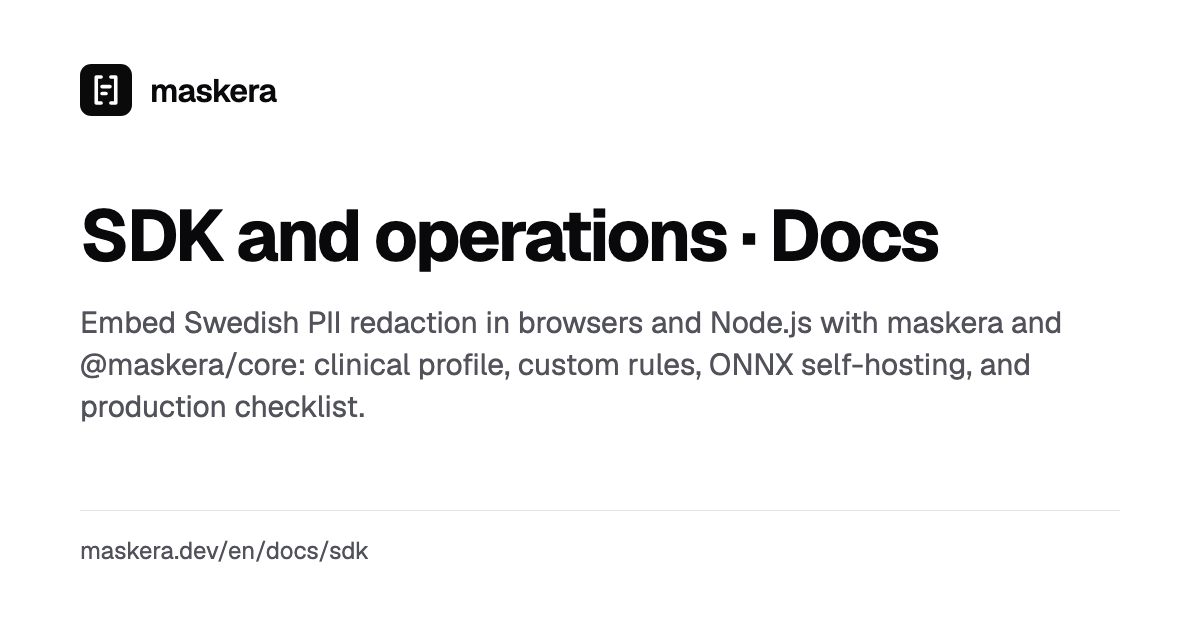
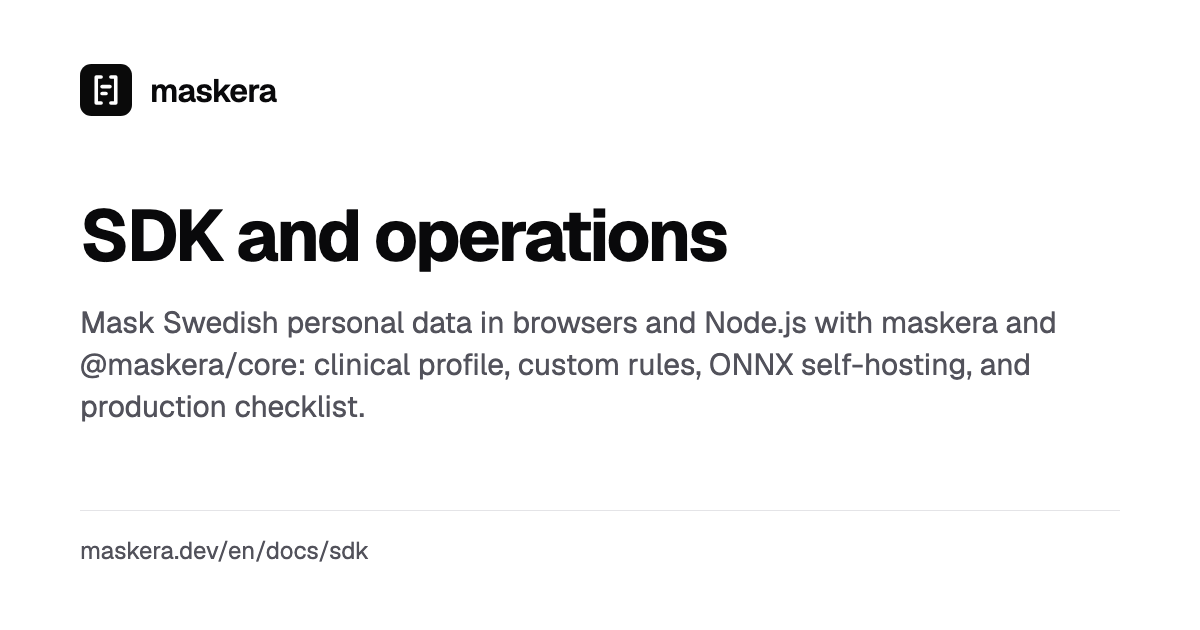
fix(demo): correct site facts and copy found in the two-model audit
- v21 trains on 121,200 rows (attestation), not v20's 108,400; locked to the model card by test/factClaims.test.ts
- /docs/sdk example kept the built-in rules off and leaked the personnummer: now spreads hybridDefaultDetectors, uses a Unicode-safe pattern and shows its real output; check:claims executes every redactWithNer code example up to its // text: line
- offline recipes pin --revision to MASKERA_SV_NER_REVISION and fetch only the needed files
- extension copy and llms.txt no longer claim Firefox before a store listing exists (tested against extensionBrowsers.ts)
- team word list is optionally encrypted, not always; MCP model size no longer stated as 43 MB
- pseudonymisation FAQ, @maskera/mcp in the security policy, verdict explained, brand casing, Swedish docs wording, consistent prices

Changed region(s): [[0.0617, 0.4825, 0.8942, 0.5429], [0.6167, 0.3317, 0.8017, 0.4222]]

diff --git a/apps/demo/test/factClaims.test.ts b/apps/demo/test/factClaims.test.ts
@@ -1,0 +1,88 @@
+import { readFileSync } from "node:fs"
+import { describe, expect, it } from "vitest"
+import { EXTENSION_BROWSERS, heroTargets } from "../src/extensionBrowsers"
+import * as i18n from "../src/i18n"
+
+/**
+ * Product facts the site repeats in prose, checked against the one place
+ * that owns each of them, so a model release or a store launch cannot leave
+ * an old number or an unshipped browser on the page.
+ */
+
+const repo = (path: string) => readFileSync(new URL(`../../../${path}`, import.meta.url), "utf8")
+const llms = readFileSync(new URL("../public/llms.txt", import.meta.url), "utf8")
+
+/** Every string in a copy tree with its key path. */
+function strings(node: unknown, path = ""): { path: string; value: string }[] {
+  if (typeof node === "string") return [{ path, value: node }]
+  if (Array.isArray(node)) return node.flatMap((item, i) => strings(item, `${path}[${i}]`))
+  if (node && typeof node === "object")
+    return Object.entries(node).flatMap(([key, value]) =>
+      strings(value, path ? `${path}.${key}` : key),
+    )
+  return []
+}
+
+const copies = Object.entries(i18n.copies)
+
+describe("training data size", () => {
+  // The model card states the attested row counts of the published model.
+  const card = repo("training/maskera-sv-ner-card/README.md")
+  const rows = Number(card.match(/uses ([\d,]+) generated training rows/)?.[1].replace(/,/g, ""))
+
+  it("is read from the model card", () => {
+    expect(rows).toBeGreaterThan(100_000)
+  })
+
+  it.each(copies)("matches the model card in %s", (_locale, copy) => {
+    const shown = copy.transparency.training.syntheticBody.match(/(\d{1,3}(?:[ , ]\d{3})+)/)?.[1]
+    expect(Number(shown?.replace(/[ , ]/g, ""))).toBe(rows)
+  })
+})
+
+describe("offline model download", () => {
+  const revision = repo("packages/ner/src/index.ts").match(
+    /MASKERA_SV_NER_REVISION = "([0-9a-f]{40})"/,
+  )?.[1]
+
+  it.each(copies)(
+    "pins every hf download to the package's model revision in %s",
+    (_locale, copy) => {
+      const downloads = strings(copy).filter(({ value }) => value.includes("hf download"))
+      expect(downloads.length).toBeGreaterThan(0)
+      for (const { path, value } of downloads)
+        expect(value, path).toContain(`--revision ${revision}`)
+    },
+  )
+})
+
+describe("browsers the extension runs in", () => {
+  // A browser counts as supported once its hero button links to a store.
+  const unshipped = heroTargets(EXTENSION_BROWSERS)
+    .filter(({ visitor, storeUrl }) => visitor !== "mobile" && !storeUrl)
+    .map(({ visitor }) => EXTENSION_BROWSERS.find(({ id }) => id === visitor))
+    .filter((browser) => browser !== undefined)
+  const LATER = /senare|snart|later|soon/i
+  /** Sentences that name the browser without saying it comes later. */
+  const claimsFor = (text: string, name: string) =>
+    text.split(/(?<=[.;!?])\s+|\n/).filter((s) => s.includes(name) && !LATER.test(s))
+
+  it.each(copies)("are never claimed for an unshipped browser in %s", (locale, copy) => {
+    for (const browser of unshipped) {
+      const name = copy.extensionInstall.browsers[browser.id].name
+      const claims = strings(copy).filter(
+        ({ path, value }) =>
+          !path.startsWith("extensionInstall.browsers.") && claimsFor(value, name).length > 0,
+      )
+      expect(claims, `${locale}: ${name} has no store listing yet`).toEqual([])
+    }
+  })
+
+  it("are never claimed for an unshipped browser in llms.txt", () => {
+    for (const browser of unshipped) {
+      const name = i18n.copies.en.extensionInstall.browsers[browser.id].name
+      const lines = claimsFor(llms, name)
+      expect(lines, `${name} has no store listing yet`).toEqual([])
+    }
+  })
+})

diff --git a/apps/demo/index.html b/apps/demo/index.html
@@ -10,7 +10,7 @@
     <title>Använd AI utan att dela personuppgifter · Maskera</title>
     <meta
       name="description"
-      content="maskera är det lokala skyddslagret framför alla AI-modeller: maskera svenska personuppgifter i webbläsaren, med tillägget, i AI-agenter via lokal proxy och MCP (@maskera/mcp) eller via npm. Endast maskerad text går vidare."
+      content="Maskera är det lokala skyddslagret framför alla AI-modeller: maskera svenska personuppgifter i webbläsaren, med tillägget, i AI-agenter via lokal proxy och MCP (@maskera/mcp) eller via npm. Endast maskerad text går vidare."
     />
     <link rel="canonical" href="https://maskera.dev/" />
     <link rel="alternate" hreflang="sv" href="https://maskera.dev/" />
@@ -37,7 +37,7 @@
     <meta property="og:title" content="Använd AI utan att dela personuppgifter · Maskera" />
     <meta
       property="og:description"
-      content="maskera är det lokala skyddslagret framför alla AI-modeller: maskera svenska personuppgifter i webbläsaren, med tillägget, i AI-agenter via lokal proxy och MCP (@maskera/mcp) eller via npm. Endast maskerad text går vidare."
+      content="Maskera är det lokala skyddslagret framför alla AI-modeller: maskera svenska personuppgifter i webbläsaren, med tillägget, i AI-agenter via lokal proxy och MCP (@maskera/mcp) eller via npm. Endast maskerad text går vidare."
     />
     <meta property="og:image" content="https://maskera.dev/og.png" />
     <meta property="og:image:width" content="1200" />
@@ -51,7 +51,7 @@
     <meta name="twitter:title" content="Använd AI utan att dela personuppgifter · Maskera" />
     <meta
       name="twitter:description"
-      content="maskera är det lokala skyddslagret framför alla AI-modeller: maskera svenska personuppgifter i webbläsaren, med tillägget, i AI-agenter via lokal proxy och MCP (@maskera/mcp) eller via npm. Endast maskerad text går vidare."
+      content="Maskera är det lokala skyddslagret framför alla AI-modeller: maskera svenska personuppgifter i webbläsaren, med tillägget, i AI-agenter via lokal proxy och MCP (@maskera/mcp) eller via npm. Endast maskerad text går vidare."
     />
     <meta name="twitter:image" content="https://maskera.dev/og.png" />
     <meta

diff --git a/apps/demo/test/siteClaims.test.ts b/apps/demo/test/siteClaims.test.ts
@@ -11,6 +11,7 @@ describe("site claims", () => {
     expect(where).toContain("heroScenes OG_SAMPLE")
     for (const locale of ["sv", "en"]) {
       expect(where).toContain(`${locale} developerApi.codeExample`)
+      expect(where.some((w: string) => w.startsWith(`${locale} docs.sdk.`))).toBe(true)
       expect(
         where.filter((w: string) => w.startsWith(`${locale} accuracy.contextExamples`)),
       ).toHaveLength(i18n.copies[locale as "sv" | "en"].accuracy.contextExamples.length)
@@ -18,7 +19,17 @@ describe("site claims", () => {
     for (const claim of claims) expect(claim.masked, claim.where).toMatch(/\[[A-ZÅÄÖ_]+_\d+\]/)
   })
 
-  it("refuses a README example without an input or a // text: line", () => {
+  it("refuses a code example that calls redactWithNer without a // text: line", () => {
     expect(() => codeExampleClaim('redactWithNer("hej")')).toThrow("// text:")
+  })
+
+  it("runs a code example only up to the output it promises", () => {
+    const claim = codeExampleClaim(
+      'const { text } = await redactWithNer("Bo Ek")\n// text: "[NAMN_1]"\nawait fragaAI(text)',
+    )
+    expect(claim).toEqual({
+      code: 'const { text } = await redactWithNer("Bo Ek")',
+      masked: "[NAMN_1]",
+    })
   })
 })

diff --git a/apps/demo/test/htmlToMarkdown.test.ts b/apps/demo/test/htmlToMarkdown.test.ts
@@ -15,7 +15,7 @@ describe("htmlToMarkdown", () => {
     expect(md).toContain("en: https://maskera.dev/en")
     expect(md).toContain("Markdown: https://maskera.dev/index.md")
     expect(md).toContain("https://maskera.dev/llms.txt")
-    expect(md).toContain("maskera är det lokala skyddslagret framför alla AI-modeller")
+    expect(md).toContain("Maskera är det lokala skyddslagret framför alla AI-modeller")
     // Interactive regions and chrome are gone
     expect(md).not.toContain("Bo ska bo i Boden")
     expect(md).not.toContain("Kandidat: Sara Lindgren")

diff --git a/apps/demo/test/controls.test.tsx b/apps/demo/test/controls.test.tsx
@@ -36,7 +36,7 @@ describe("Controls accessibility", () => {
       />,
     )
 
-    const progress = screen.getByRole("progressbar", { name: /Laddar maskeras AI-modell/ })
+    const progress = screen.getByRole("progressbar", { name: /Laddar Maskeras AI-modell/ })
     expect(progress.getAttribute("aria-valuenow")).toBe("42")
     expect(progress.closest('[role="status"]')).not.toBeNull()
     expect(progress.closest(".model-status-group")?.textContent).toContain("sparas lokalt")

diff --git a/docs/TRAINING_DATA_PROTECTION.md b/docs/TRAINING_DATA_PROTECTION.md
@@ -77,6 +77,9 @@ HARD_NEGATIVE_TRAIN_ROWS=5600 HARD_NEGATIVE_VAL_ROWS=560 \
 CLINICAL_CONTRAST_TRAIN_ROWS=4000 CLINICAL_CONTRAST_VAL_ROWS=400 \
 HOMOGRAPH_CONTRAST_TRAIN_ROWS=2400 HOMOGRAPH_CONTRAST_VAL_ROWS=240 \
 REGISTER_PRECISION_TRAIN_ROWS=4000 REGISTER_PRECISION_VAL_ROWS=400 \
+CASED_HOMOGRAPH_TRAIN_ROWS=800 CASED_HOMOGRAPH_VAL_ROWS=80 \
+MIXED_PRECISION_TRAIN_ROWS=6000 MIXED_PRECISION_VAL_ROWS=600 \
+PARAGRAPH_TRAIN_ROWS=6000 PARAGRAPH_VAL_ROWS=400 \
   node generate_data.mjs 90000 5000
 node audit_data.mjs
 node privacy_attestation.mjs
@@ -84,8 +87,9 @@ node verify_attestation.mjs data/privacy-attestation.json
 node --test privacy_guard.test.mjs privacy_attestation.test.mjs
 ```
 
-The published 2026-11-25 v20 artifact therefore contains 108,400 training
-rows and 6,900 disjoint validation rows. Its train, validation, and generator
+The published 2026-11-27 v21 artifact therefore contains 121,200 training
+rows and 7,980 disjoint validation rows (the `train.rows` and
+`validation.rows` of its `privacy-attestation.json`). Its train, validation, and generator
 SHA-256 values are recorded in `docs/BENCHMARKS.md` and bound in the artifact's
 schema-2 attestation. The published weights carry that attestation unchanged.
 
@@ -98,7 +102,7 @@ copyright licence is not a GDPR determination and does not waive rights held
 by other people. Creative Commons itself notes that CC0 does not affect third
 parties' privacy or publicity rights.
 
-For that reason the accurate statement is: **the privacy-clean Maskera v20
+For that reason the accurate statement is: **the privacy-clean Maskera v21
 release adds no sourced real records, plausible real street/number pairs, or
 structured identifiers during fine-tuning or distillation.** An absolute
 claim about all information ever seen during KB-BERT pretraining would require

diff --git a/SECURITY.md b/SECURITY.md
@@ -1,12 +1,12 @@
 # Security policy
 
-maskera is a privacy tool, so we treat security reports seriously and
+Maskera is a privacy tool, so we treat security reports seriously and
 appreciate them.
 
 ## Supported versions
 
-Only the latest published versions of `maskera` and `@maskera/core` on npm
-receive security fixes. Please update before reporting.
+Only the latest published versions of `maskera`, `@maskera/core` and
+`@maskera/mcp` on npm receive security fixes. Please update before reporting.
 
 ## Reporting a vulnerability
 
